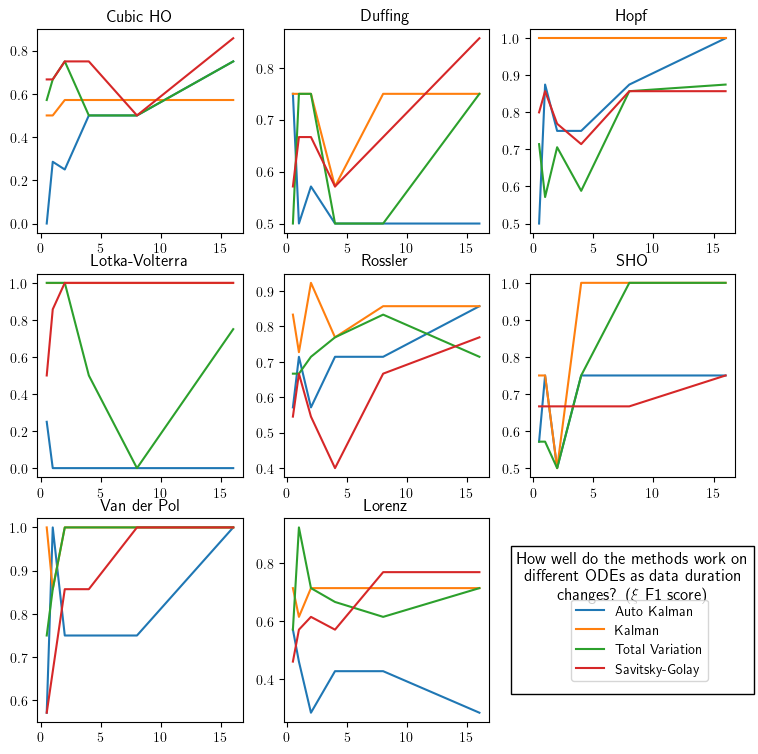
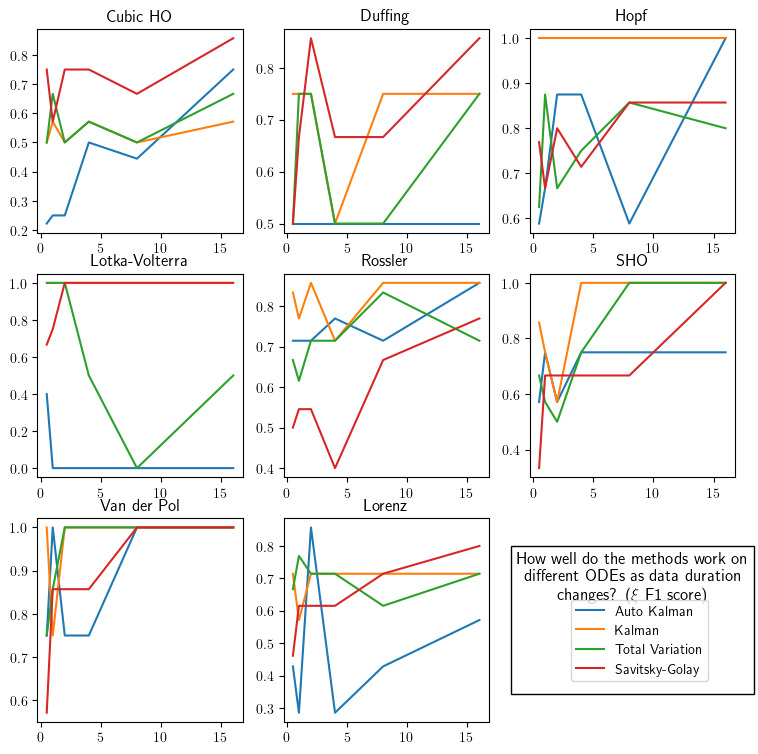
exp: Save rest of new images with correct Kalman GCV param

diff --git a/images/gen_image/composite_plots.py b/images/gen_image/composite_plots.py
@@ -3,14 +3,14 @@ import ksindy_figs.plotting as plots
 from ksindy_figs.plotting import ExpKey
 
 exp_hexes = {
-    "Cubic HO": ExpKey("901103"),
-    "Duffing": ExpKey("0ed95a"),
-    "Hopf": ExpKey("06759e"),
-    "Lotka-Volterra": ExpKey("76a230"),
-    "Rossler": ExpKey("01b99b"),
-    "SHO": ExpKey("3c7c58"),
-    "Van der Pol": ExpKey("7e4acc"),
-    "Lorenz": ExpKey("76e1c9"),
+    "Cubic HO": ExpKey("44e615"),
+    "Duffing": ExpKey("20c770"),
+    "Hopf": ExpKey("b77481"),
+    "Lotka-Volterra": ExpKey("9629a3"),
+    "Rossler": ExpKey("de0435"),
+    "SHO": ExpKey("4d95d1"),
+    "Van der Pol": ExpKey("7291d3"),
+    "Lorenz": ExpKey("268d27"),
 }
 
 # %%
